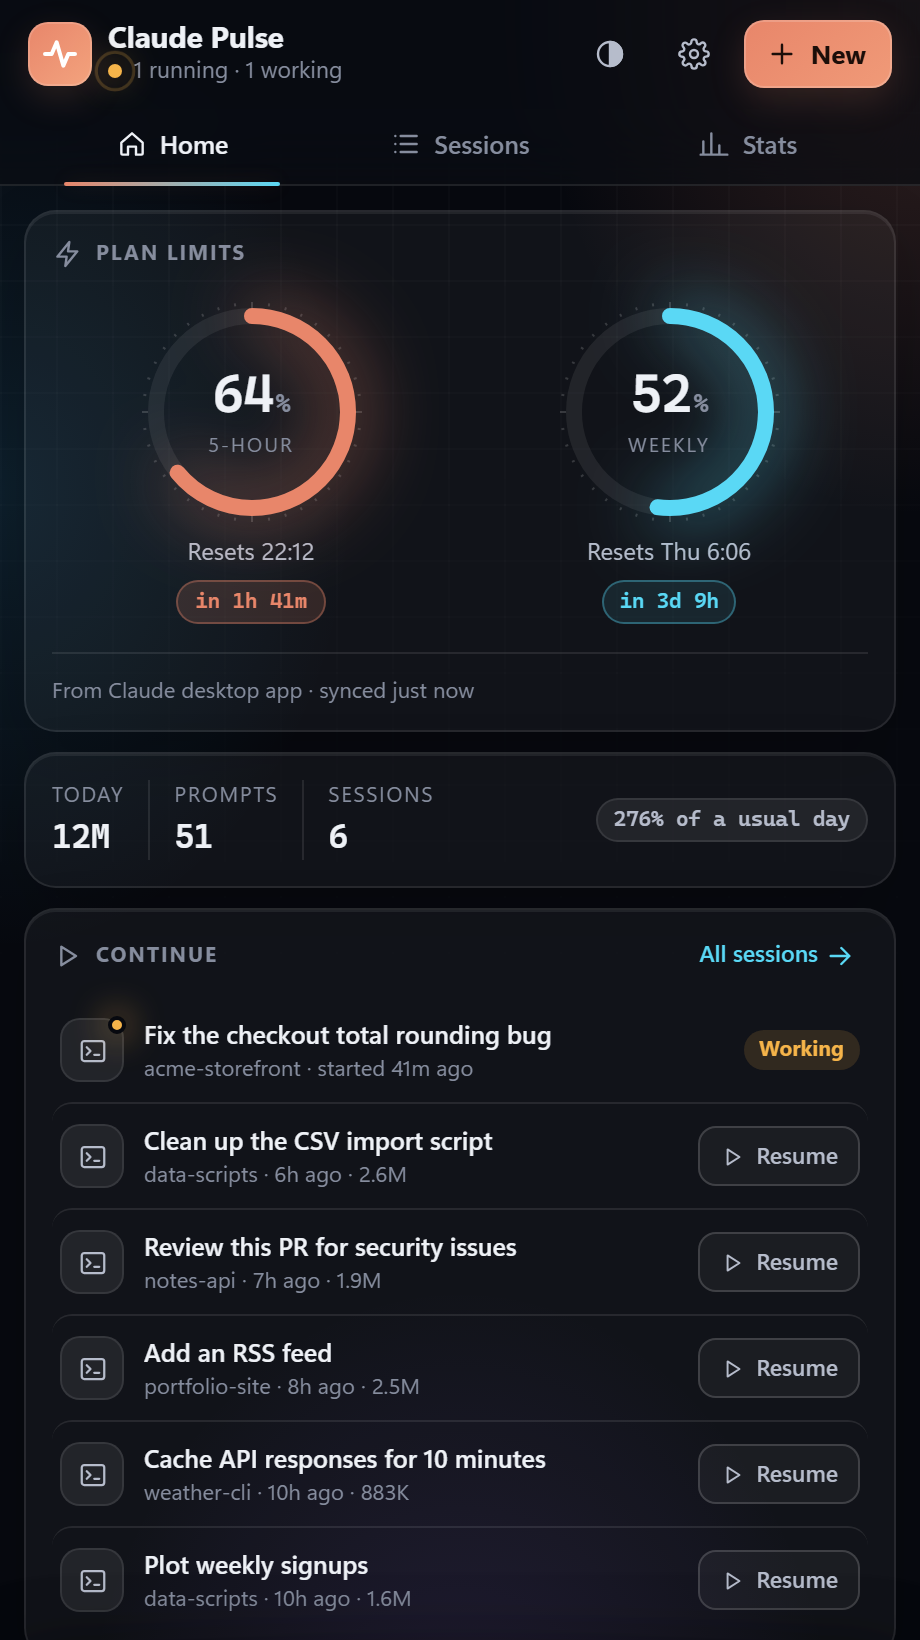
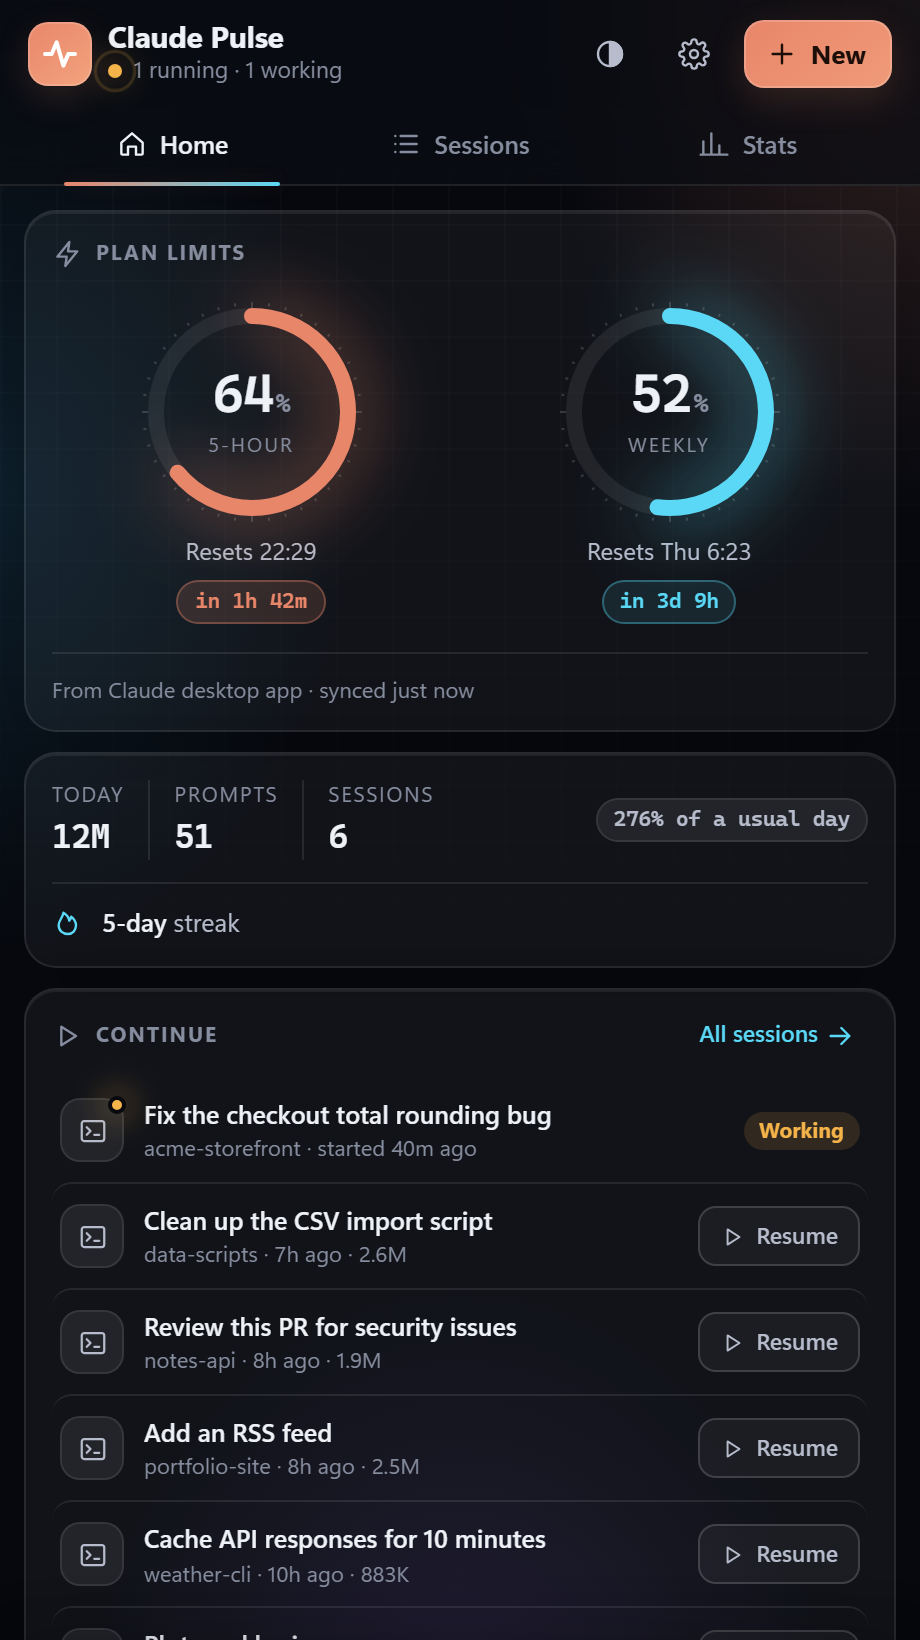
v1.1.0: About section, footer, update check + one-click update, insight merged into Today card

diff --git a/index.html b/index.html
@@ -183,6 +183,15 @@ main{flex:1;overflow-y:auto;overflow-x:hidden;padding:12px 12px calc(24px + env(
 .insight{display:flex;gap:9px;align-items:center;font-size:12.5px;color:var(--text-2);min-height:20px;transition:opacity .3s}
 .insight svg{color:var(--cyan)}
 .insight b{color:var(--text);font-weight:600}
+.insight.in-card{margin-top:11px;padding-top:10px;border-top:1px solid var(--edge)}
+.foot{max-width:560px;margin:18px auto 0;display:flex;justify-content:center;align-items:center;flex-wrap:wrap;gap:4px 8px;font-size:11px;color:var(--muted)}
+.foot a,.about a{color:var(--text-2);font-weight:600;cursor:pointer;text-decoration:none}
+.foot a:hover,.about a:hover{color:var(--brand);text-decoration:underline}
+.foot .upd{color:var(--cyan)}
+.about .links2{display:flex;flex-wrap:wrap;gap:8px;margin-top:10px}
+.about .ver{display:flex;align-items:center;flex-wrap:wrap;gap:8px;margin-top:10px;font-size:11.5px;color:var(--muted)}
+.about .sp{flex:1}
+.about button[disabled]{opacity:.5;cursor:default}
 
 /* sessions */
 .search{position:sticky;top:-12px;z-index:3;margin:-12px -12px 0;padding:12px 12px 8px;background:linear-gradient(var(--bg) 70%,transparent)}
@@ -346,6 +355,7 @@ textarea.input{resize:none;height:76px}
     <div class="card" style="padding:6px 8px"><div class="list" id="slist"></div></div>
   </section>
   <section class="view" id="v-stats"></section>
+  <footer class="foot">by <a data-url="https://bliink.in" href="https://bliink.in">Bliink</a><span aria-hidden="true">·</span><span>Claude Pulse v__PULSE_VERSION__</span><span id="footUpd"></span></footer>
 </main>
 
 <div class="scrim" id="scrim"></div>
@@ -371,7 +381,7 @@ textarea.input{resize:none;height:76px}
   </div>
   <label class="check" id="rcRow"><input type="checkbox" id="rc"> Remote Control: continue this session from the Claude app on your phone</label>
   <div class="err" id="err" role="alert"></div>
-  <button class="primary" id="go" style="width:100%;justify-content:center;height:40px"><svg class="i"><use href="#i-play"/></svg><span id="goLbl">Launch on this PC</span></button>
+  <button class="primary" id="go" style="width:100%;justify-content:center;height:40px"><svg class="i"><use href="#i-play"/></svg><span id="goLbl">Launch on this computer</span></button>
   <div class="links" id="links">
     <button class="ghost" data-url="https://claude.ai/new"><svg class="i"><use href="#i-chat"/></svg>New chat</button>
     <button class="ghost" data-url="https://claude.ai/recents"><svg class="i"><use href="#i-clock"/></svg>Recent chats</button>
@@ -384,7 +394,7 @@ textarea.input{resize:none;height:76px}
   <h3 id="setTitle"><svg class="i"><use href="#i-gear"/></svg>Settings<span class="sp"></span>
     <button class="iconbtn close" aria-label="Close"><svg class="i"><use href="#i-x"/></svg></button></h3>
   <div class="set">
-    <div class="body"><b>Theme</b><p>Auto follows Windows.</p></div>
+    <div class="body"><b>Theme</b><p>Auto follows your system.</p></div>
     <div class="seg" id="themeSeg" role="group" aria-label="Theme" style="margin-left:auto">
       <span class="thumb"></span>
       <button data-t="auto" aria-pressed="false">Auto</button><button data-t="dark" aria-pressed="false">Dark</button><button data-t="light" aria-pressed="false">Light</button>
@@ -397,7 +407,7 @@ textarea.input{resize:none;height:76px}
     <label class="switch"><input type="checkbox" id="sLive" aria-label="Live plan limits"><span></span></label>
   </div>
   <div class="set">
-    <div class="body"><b>Limit alerts</b><p>Windows notification when the 5-hour limit passes 80%, and again when it resets.</p></div>
+    <div class="body"><b>Limit alerts</b><p>Desktop notification when the 5-hour limit passes 80%, and again when it resets.</p></div>
     <label class="switch"><input type="checkbox" id="sAlerts" aria-label="Limit alerts"><span></span></label>
   </div>
   <div class="set" style="flex-wrap:wrap">
@@ -405,6 +415,18 @@ textarea.input{resize:none;height:76px}
       <p>Open Pulse on your phone over your home Wi-Fi. Phones can view everything and start sessions with Remote Control. The first time, your firewall may ask to allow Node.js on private networks: choose Allow.</p></div>
     <label class="switch"><input type="checkbox" id="sLan" aria-label="Phone access"><span></span></label>
     <div id="lanBox" style="width:100%"></div>
+  </div>
+  <div class="set about">
+    <div class="body"><b>About</b>
+      <p>Claude Pulse shows your Claude plan limits with reset times, every Claude Code, Desktop and Cowork session with one-click resume, and stats on tokens, models, projects and tools. It reads Claude's files on this computer and sends nothing anywhere. Free and open source under the MIT license.</p>
+      <p style="margin-top:6px">Developed by <a data-url="https://bliink.in" href="https://bliink.in">Bliink</a>.</p>
+      <div class="links2">
+        <button class="ghost" data-url="https://bliink.in"><svg class="i"><use href="#i-ext"/></svg>bliink.in</button>
+        <button class="ghost" data-url="https://github.com/ravirahul/claude-pulse"><svg class="i"><use href="#i-ext"/></svg>GitHub</button>
+      </div>
+      <div class="ver" aria-live="polite"><span>Version <span class="mono" style="color:var(--text)">__PULSE_VERSION__</span></span><span id="updMsg"></span>
+        <span class="sp"></span><button class="ghost" id="updBtn">Check for updates</button></div>
+    </div>
   </div>
 </div>
 
@@ -520,17 +542,19 @@ function renderHome(D) {
     ${bd}
     <div class="src">${srcTxt}${hint}</div>
   </div>
-  <div class="card today">
-    <div class="stat"><span>Today</span><b class="num">${fT(today.tok)}</b></div><div class="sep"></div>
-    <div class="stat"><span>Prompts</span><b class="num">${fN(today.prompts)}</b></div><div class="sep"></div>
-    <div class="stat"><span>Sessions</span><b class="num">${fN(sessToday)}</b></div>
-    ${vs != null ? `<span class="chip mono" title="Today so far, compared with your median active day over the last 2 weeks (${fT(usual)})">${vs}% of a usual day</span>` : ''}
+  <div class="card">
+    <div class="today">
+      <div class="stat"><span>Today</span><b class="num">${fT(today.tok)}</b></div><div class="sep"></div>
+      <div class="stat"><span>Prompts</span><b class="num">${fN(today.prompts)}</b></div><div class="sep"></div>
+      <div class="stat"><span>Sessions</span><b class="num">${fN(sessToday)}</b></div>
+      ${vs != null ? `<span class="chip mono" title="Today so far, compared with your median active day over the last 2 weeks (${fT(usual)})">${vs}% of a usual day</span>` : ''}
+    </div>
+    <div class="insight in-card" id="insight"></div>
   </div>
   <div class="card">
     <h2>${icon('i-play')}Continue<span class="r"><button class="link" data-act="tab:sessions">All sessions ${icon('i-arrow')}</button></span></h2>
     <div class="list">${running.map(r => row(r, r.live)).join('')}${recent.map(s => row(s)).join('') || '<div class="empty">No sessions yet</div>'}</div>
-  </div>
-  <div class="card" style="padding:11px 13px"><div class="insight" id="insight"></div></div>`;
+  </div>`;
 }
 
 function row(s, l) {
@@ -674,6 +698,7 @@ function renderStats(D) {
 // ---------- render ----------
 function render() {
   const D = state.data; if (!D) return;
+  renderUpd(D.update);
   if (!D.stats) {
     const p = D.indexing.total ? D.indexing.done / D.indexing.total * 100 : 0;
     $('#v-home').innerHTML = `<div class="card"><h2>${icon('i-refresh')}Indexing your history…</h2><div class="note">First run reads every transcript once; after that only new lines are read.</div><div class="progress"><span style="width:${p}%"></span></div><div class="note num" style="margin-top:6px">${D.indexing.done} / ${D.indexing.total} files</div></div>`;
@@ -840,15 +865,63 @@ $('#go').addEventListener('click', async () => {
   go.disabled = false;
   if (ok) { ls.set('cwd', body.cwd); $('#prompt').value = ''; closePanel(); toast(body.rc ? 'Started on your computer. It will appear in the Claude app.' : 'Claude Code is starting in a new terminal'); setTimeout(() => load(true), 4000); }
 });
-$$('#links [data-url]').forEach(b => b.addEventListener('click', () => state.remote ? (location.href = b.dataset.url) : post('/api/open', { url: b.dataset.url })));
+// external links open in the normal browser (the server opens them), on phones in a new tab
+document.addEventListener('click', e => {
+  const b = e.target.closest('[data-url]'); if (!b) return;
+  e.preventDefault();
+  state.remote ? window.open(b.dataset.url, '_blank', 'noopener') : post('/api/open', { url: b.dataset.url });
+});
 
 function applyRemote() {
   // phones: no settings, sessions always use Remote Control, no permission-skipping modes, links open on the phone
   $('#setBtn').hidden = state.remote;
   $('#rcRow').hidden = state.remote;
   $$('#mode [data-pc]').forEach(o => o.hidden = o.disabled = state.remote);
-  $('#goLbl').textContent = state.remote ? 'Start on PC with Remote Control' : 'Launch on this PC';
+  $('#goLbl').textContent = state.remote ? 'Start on computer with Remote Control' : 'Launch on this computer';
 }
+
+// updates: footer hint + About section
+let updState = null;
+function renderUpd(u) {
+  if (!u) return; updState = u;
+  const f = $('#footUpd');
+  f.innerHTML = u.available && !state.remote ? `<span aria-hidden="true">·</span> <button class="link upd" data-act="settings">Update available</button>` : '';
+  if ($('#updBtn').dataset.busy) return;
+  const btn = $('#updBtn'), msg = $('#updMsg');
+  if (u.available) {
+    msg.innerHTML = `· <span style="color:var(--text);font-weight:600">${esc(u.latest)}</span> is available`;
+    btn.textContent = u.git ? 'Update now' : 'Download'; btn.dataset.mode = u.git ? 'update' : 'download';
+  } else {
+    msg.textContent = u.err ? '· ' + u.err : u.checked ? "· You're up to date" : '';
+    btn.textContent = 'Check for updates'; btn.dataset.mode = 'check';
+  }
+}
+$('#updBtn').addEventListener('click', async () => {
+  const btn = $('#updBtn'), msg = $('#updMsg'), mode = btn.dataset.mode || 'check';
+  if (mode === 'download') return post('/api/open', { url: 'https://github.com/ravirahul/claude-pulse' });
+  btn.disabled = true; btn.dataset.busy = 1;
+  btn.textContent = mode === 'update' ? 'Updating…' : 'Checking…';
+  try {
+    const r = await fetch(mode === 'update' ? '/api/update' : '/api/update/check',
+      { method: 'POST', headers: { 'Content-Type': 'application/json', 'X-Pulse-Token': TOKEN }, body: '{}' });
+    const j = await r.json();
+    if (!r.ok) throw new Error(j.error || 'Something went wrong');
+    if (mode === 'check') { delete btn.dataset.busy; btn.disabled = false; return renderUpd(j); }
+    if (!j.restart) { msg.textContent = '· ' + (j.note || 'Already up to date.'); }
+    else {
+      msg.textContent = '· Updated. Restarting…';
+      if (j.note) toast(j.note);
+      // wait for the restarted server, then load the new version of this page
+      await new Promise(ok => setTimeout(ok, 2500));
+      for (let i = 0; i < 60; i++) {
+        try { if ((await fetch('/api/settings', { cache: 'no-store' })).ok) return location.reload(); } catch {}
+        await new Promise(ok => setTimeout(ok, 1000));
+      }
+      msg.textContent = '· Restart is taking long. Reopen Pulse.';
+    }
+  } catch (e) { msg.textContent = '· ' + e.message; }
+  delete btn.dataset.busy; btn.disabled = false; btn.textContent = 'Check for updates'; btn.dataset.mode = 'check';
+});
 
 // settings
 let pairTimer = 0;

diff --git a/server.js b/server.js
@@ -514,8 +514,56 @@ function winQuote(a) {
   return '"' + a.replace(/(\\*)"/g, '$1$1\\"').replace(/(\\+)$/, '$1$1') + '"';
 }
 
+// ---------- updates: compare with manifest.json on GitHub; update = git pull + restart ----------
+const VERSION = safeJSON(path.join(__dirname, 'manifest.json'), {}).version || '0.0.0';
+const REPO = 'ravirahul/claude-pulse';
+const upd = { latest: '', checked: 0, err: '' };
+function newer(a, b) {
+  const x = a.split('.').map(Number), y = b.split('.').map(Number);
+  for (let i = 0; i < 3; i++) if ((x[i] || 0) !== (y[i] || 0)) return (x[i] || 0) > (y[i] || 0);
+  return false;
+}
+const updInfo = () => ({ version: VERSION, latest: upd.latest, available: !!upd.latest && newer(upd.latest, VERSION),
+  checked: upd.checked, err: upd.err, git: fs.existsSync(path.join(__dirname, '.git')) });
+async function checkUpdate() {
+  try {
+    const r = await fetch(`https://raw.githubusercontent.com/${REPO}/main/manifest.json`, { signal: AbortSignal.timeout(8000), cache: 'no-store' });
+    if (!r.ok) throw new Error('GitHub returned ' + r.status);
+    upd.latest = String((await r.json()).version || ''); upd.err = '';
+  } catch (e) { upd.err = 'Could not reach GitHub'; }
+  upd.checked = Date.now();
+  return updInfo();
+}
+const git = (...a) => execFileSync('git', a, { cwd: __dirname, encoding: 'utf8', timeout: 60000, windowsHide: true, stdio: 'pipe' }).trim();
+function applyUpdate() {
+  if (!fs.existsSync(path.join(__dirname, '.git'))) throw new Error('This copy was not installed with git. Download the new version from GitHub.');
+  let changed;
+  try {
+    const old = git('rev-parse', 'HEAD');
+    git('pull', '--ff-only', '--quiet');
+    changed = git('diff', '--name-only', old, 'HEAD').split('\n').filter(Boolean);
+  } catch (e) { throw new Error('git pull failed: ' + String(e.stderr || e.message).trim().split('\n')[0]); }
+  if (!changed.length) return { restart: false, note: 'Already up to date.' };
+  if (WIN && changed.some(f => f === 'Pulse.cs' || f === 'build.ps1')) {
+    // the tray app changed: rebuild it, which also restarts everything
+    spawn('powershell.exe', ['-NoProfile', '-ExecutionPolicy', 'Bypass', '-File', path.join(__dirname, 'build.ps1'), '-NoStartup', '-Silent'],
+      { cwd: __dirname, detached: true, stdio: 'ignore', windowsHide: true }).unref();
+    return { restart: true, note: '' };
+  }
+  setTimeout(restartSelf, 400); // after the reply goes out
+  return { restart: true, note: !WIN && changed.includes('install.sh') ? `To finish, run "sh install.sh" in ${__dirname} once.` : '' };
+}
+// The tray app (Windows), launchd or systemd start us again. With no supervisor, start a fresh copy first.
+function restartSelf() {
+  if (!process.env.PULSE_SUPERVISED) {
+    server.close();
+    spawn(process.execPath, process.argv.slice(1), { detached: true, stdio: 'ignore', windowsHide: true }).unref();
+  }
+  process.exit(0);
+}
+
 function openUrl(u) {
-  if (!/^https:\/\/claude\.ai\//.test(u)) throw new Error('Blocked URL');
+  if (!/^https:\/\/(claude\.ai\/|bliink\.in\/?$|github\.com\/ravirahul\/claude-pulse)/.test(u)) throw new Error('Blocked URL');
   const [cmd, ...a] = WIN ? ['rundll32.exe', 'url.dll,FileProtocolHandler'] : MAC ? ['open'] : ['xdg-open'];
   spawn(cmd, [...a, u], { detached: true, stdio: 'ignore' }).on('error', () => {}).unref();
 }
@@ -596,7 +644,7 @@ const server = http.createServer((req, res) => {
 
   if (req.method === 'GET' && url.pathname === '/') {
     return fs.readFile(INDEX, 'utf8', (e, html) => e ? send(res, 500, 'index missing', 'text/plain')
-      : send(res, 200, html.replace('__PULSE_TOKEN__', TOKEN), 'text/html; charset=utf-8'));
+      : send(res, 200, html.replace('__PULSE_TOKEN__', TOKEN).replace(/__PULSE_VERSION__/g, VERSION), 'text/html; charset=utf-8'));
   }
   if (req.method === 'GET' && STATIC[url.pathname]) {
     const [f, type] = STATIC[url.pathname];
@@ -607,7 +655,7 @@ const server = http.createServer((req, res) => {
     refreshLive();
     const base = indexing.running && !Object.keys(cache.files).length ? null : buildStats();
     const openNew = !remote && wantNew; if (openNew) wantNew = false;
-    return send(res, 200, { now: Date.now(), indexing, stats: base, live: liveSessions(), limits: limits(), inv: inventory(), openNew, remote });
+    return send(res, 200, { now: Date.now(), indexing, stats: base, live: liveSessions(), limits: limits(), inv: inventory(), openNew, remote, update: updInfo() });
   }
   // local-only from here on, except launching
   if (remote && !(req.method === 'POST' && url.pathname === '/api/launch')) return send(res, 403, { error: 'Only available on the computer' });
@@ -636,6 +684,8 @@ const server = http.createServer((req, res) => {
         const p = url.pathname;
         if (p === '/api/launch') launch(body, remote);
         else if (p === '/api/open') openUrl(String(body.url || ''));
+        else if (p === '/api/update/check') return send(res, 200, await checkUpdate());
+        else if (p === '/api/update') return send(res, 200, applyUpdate());
         else if (p === '/api/rescan') { cache = { v: CACHE_VERSION, files: {} }; statsMemo = null; scan(); }
         else if (p === '/api/settings') {
           for (const k of ['liveLimits', 'alerts']) if (typeof body[k] === 'boolean') settings[k] = body[k];
@@ -673,4 +723,5 @@ function relisten() {
 server.on('error', e => { console.error(e.message); process.exit(e.code === 'EADDRINUSE' ? 3 : 1); });
 relisten();
 scan();
+setTimeout(checkUpdate, 15000); setInterval(checkUpdate, 12 * 3600e3).unref();
 setInterval(() => { if (!indexing.running && Date.now() - lastScan > 60000) scan(); refreshLive(); notify(); }, 30000).unref();

diff --git a/Pulse.cs b/Pulse.cs
@@ -13,7 +13,7 @@ using System.Windows.Forms;
 
 [assembly: System.Reflection.AssemblyTitle("Claude Pulse")]
 [assembly: System.Reflection.AssemblyProduct("Claude Pulse")]
-[assembly: System.Reflection.AssemblyVersion("1.0.0.0")]
+[assembly: System.Reflection.AssemblyVersion("1.1.0.0")]
 
 static class Pulse
 {
@@ -112,6 +112,7 @@ static class Pulse
                 WorkingDirectory = Dir, UseShellExecute = false, CreateNoWindow = true,
                 RedirectStandardOutput = true, RedirectStandardError = true,
             };
+            psi.EnvironmentVariables["PULSE_SUPERVISED"] = "1"; // server.js exits to restart after an update
             server = new Process { StartInfo = psi, EnableRaisingEvents = true };
             var log = Path.Combine(DataDir, "server.log");
             server.OutputDataReceived += (s, e) => Log(log, e.Data);

diff --git a/README.md b/README.md
@@ -32,7 +32,7 @@ git clone https://github.com/ravirahul/claude-pulse ~/.local/share/claude-pulse
 sh ~/.local/share/claude-pulse/install.sh
 ```
 
-**Update:** `git pull` in that folder, then run the same install command again.
+**Update:** Settings (gear) > About > Check for updates > Update now. Pulse also checks GitHub twice a day and shows "Update available" in the footer. By hand: `git pull` in the install folder, then run the same install command again.
 **Uninstall:** Windows: tray > Quit, then delete the folder and the "Claude Pulse" shortcuts in Start Menu and Startup. macOS / Linux: `sh install.sh --uninstall`, then delete the folder.
 
 ## Install steps (for Claude)
